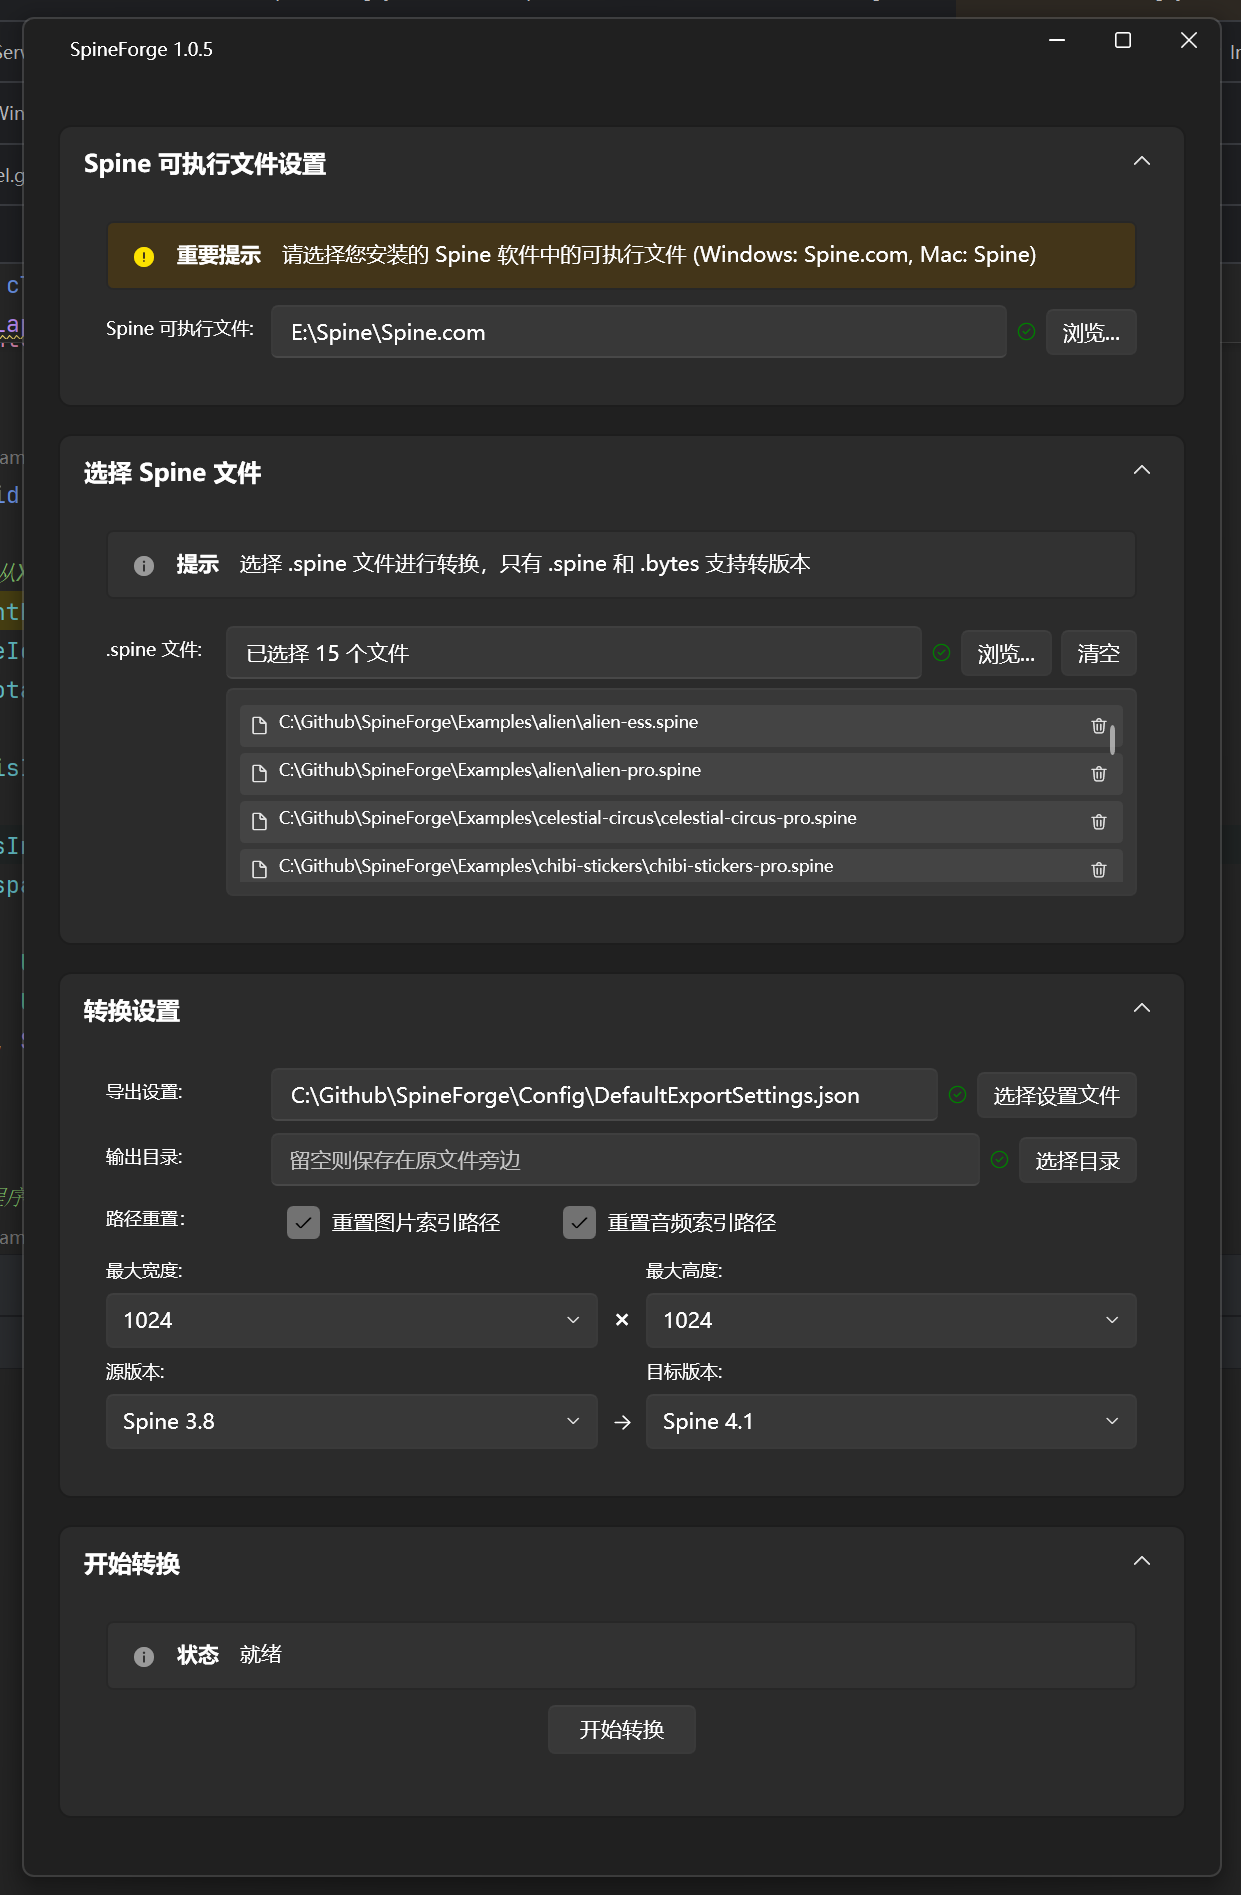
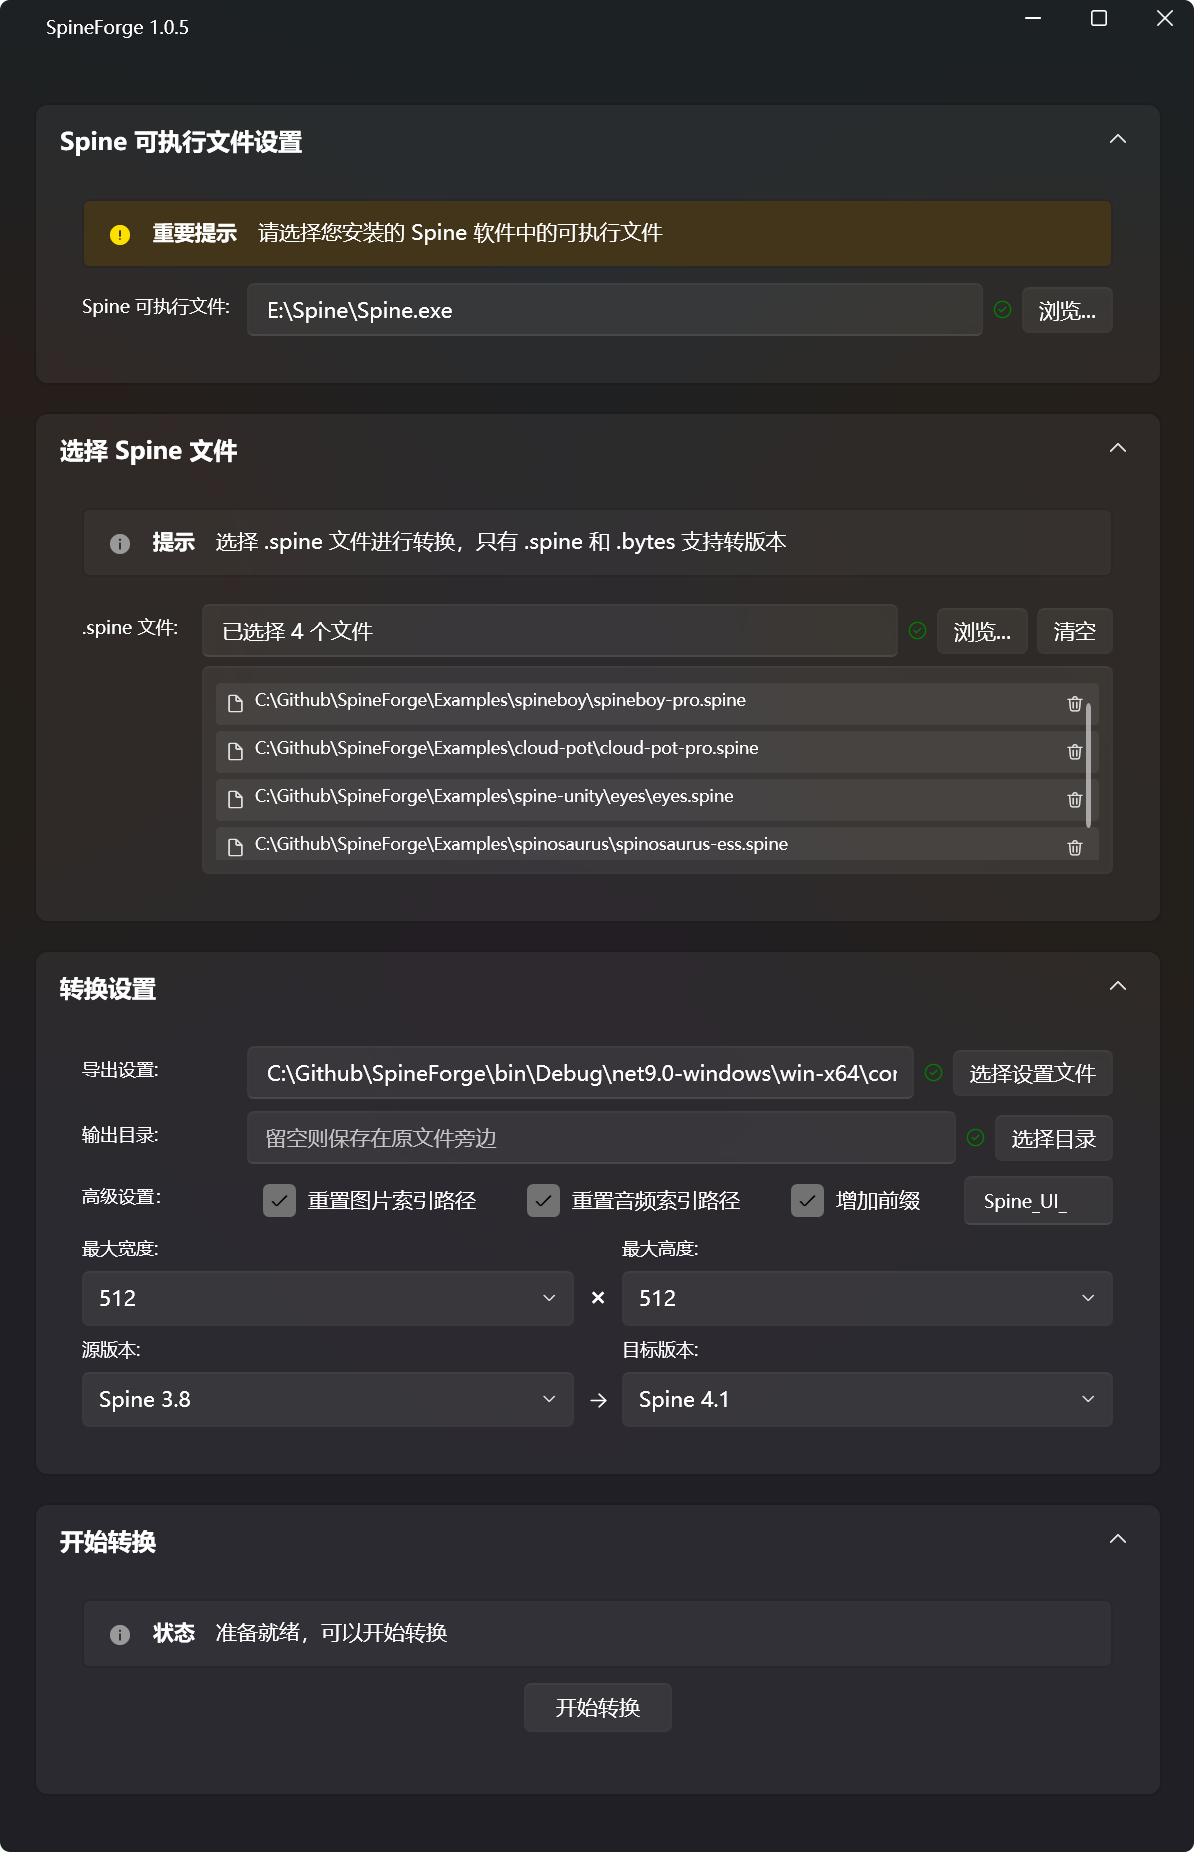
feat: Add file prefix modification functionality.

diff --git a/Views/MainWindow.xaml b/Views/MainWindow.xaml
@@ -53,7 +53,7 @@
                         <StackPanel Margin="15">
 
                             <ui:InfoBar Title="重要提示"
-                                        Message="请选择您安装的 Spine 软件中的可执行文件 (Windows: Spine.com, Mac: Spine)"
+                                        Message="请选择您安装的 Spine 软件中的可执行文件"
                                         Severity="Warning"
                                         IsOpen="True"
                                         IsClosable="False"
@@ -330,7 +330,7 @@
                                            Padding="10,5" />
                             </Grid>
 
-                            <!-- 路径重置选项 -->
+                            <!-- 高级设置选项 -->
                             <Grid Margin="0,0,0,8">
                                 <Grid.ColumnDefinitions>
                                     <ColumnDefinition Width="110" />
@@ -340,26 +340,49 @@
                                 </Grid.ColumnDefinitions>
 
                                 <ui:TextBlock Grid.Column="0"
-                                              Text="路径重置："
+                                              Text="高级设置："
                                               VerticalAlignment="Center"
                                               FontWeight="Medium"
                                               FontSize="12" />
 
-                                <StackPanel Grid.Column="1" Orientation="Horizontal" Margin="0,0,6,0">
-                                    <CheckBox Content="重置图片索引路径"
+                                <Grid Grid.Column="1" Margin="0,0,0,0">
+                                    <Grid.ColumnDefinitions>
+                                        <ColumnDefinition Width="Auto" />
+                                        <ColumnDefinition Width="Auto" />
+                                        <ColumnDefinition Width="Auto" />
+                                        <ColumnDefinition Width="*" />
+                                    </Grid.ColumnDefinitions>
+
+                                    <CheckBox Grid.Column="0"
+                                              Content="重置图片索引路径"
                                               IsChecked="{Binding ConversionSettings.ResetImagePaths}"
                                               FontSize="12"
-                                              Margin="0,0,20,0"
+                                              Margin="0,0,12,0"
                                               VerticalAlignment="Center" />
 
-                                    <CheckBox Content="重置音频索引路径"
+                                    <CheckBox Grid.Column="1"
+                                              Content="重置音频索引路径"
                                               IsChecked="{Binding ConversionSettings.ResetAudioPaths}"
                                               FontSize="12"
+                                              Margin="0,0,12,0"
                                               VerticalAlignment="Center" />
-                                </StackPanel>
+
+                                    <CheckBox Grid.Column="2"
+                                              Content="增加前缀"
+                                              IsChecked="{Binding ConversionSettings.AddPrefix}"
+                                              FontSize="12"
+                                              Margin="0,0,6,0"
+                                              VerticalAlignment="Center" />
+
+                                    <ui:TextBox Grid.Column="3"
+                                                Text="{Binding ConversionSettings.FilePrefix}"
+                                                PlaceholderText="输入前缀..."
+                                                FontSize="12"
+                                                VerticalAlignment="Center"
+                                                IsEnabled="{Binding ConversionSettings.AddPrefix}" />
+                                </Grid>
                             </Grid>
-
-
+                            
                             <!-- 图集尺寸设置 -->
                             <Grid Margin="0,0,0,8">
                                 <Grid.ColumnDefinitions>

diff --git a/ViewModels/MainViewModel.cs b/ViewModels/MainViewModel.cs
@@ -7,9 +7,9 @@ using System.ComponentModel;
 using System.IO;
 using System.Reflection;
 using System.Text;
+
 // ReSharper disable UnusedMember.Local
 // ReSharper disable LocalizableElement
-
 // ReSharper disable RedundantDefaultMemberInitializer
 // ReSharper disable UnusedVariable
 
@@ -52,14 +52,14 @@ public partial class MainViewModel : ObservableObject
         HasSpineFiles &&
         SelectedTargetVersion != null &&
         ConversionSettings.IsExportSettingsValid;
-    
+
     public bool ButtonEnabled => CanStartConversion;
-    
+
     private bool ContainsNonAsciiCharacters(string path)
     {
         return !string.IsNullOrEmpty(path) && path.Any(c => c > 127);
     }
-    
+
     // 用于 UI 绑定的显示属性（简化为计算属性）
     public string SpineExecutablePathDisplay =>
         string.IsNullOrEmpty(CurrentAsset?.SpineExecutablePath) ? "未选择" : CurrentAsset.SpineExecutablePath;
@@ -728,6 +728,11 @@ public partial class MainViewModel : ObservableObject
                 unifiedLog.AppendLine($"完整路径: {filePath}");
                 unifiedLog.AppendLine(startLogEntry);
 
+                var preConversionSnapshot = TakeDirectorySnapshot(ConversionSettings.OutputDirectory);
+                var snapshotLog =
+                    $"{DateTime.Now:yyyy-MM-dd HH:mm:ss} - [{fileName}] 记录转换前快照，现有文件数: {preConversionSnapshot.Count}";
+                unifiedLog.AppendLine(snapshotLog);
+
                 // 为每个文件创建单独的 SpineAsset
                 var assetForConversion = new SpineAsset
                 {
@@ -754,6 +759,10 @@ public partial class MainViewModel : ObservableObject
                 if (success)
                 {
                     successCount++;
+
+                    // 使用快照进行文件重命名
+                    await HandleFileRenamingWithSnapshotAsync(filePath, fileName, preConversionSnapshot, unifiedLog);
+
                     var successEntry =
                         $"{DateTime.Now:yyyy-MM-dd HH:mm:ss} - ✓ 转换成功: {fileName} (耗时: {fileDuration.TotalSeconds:F1}秒)";
                     ConversionLog += successEntry + "\n";
@@ -808,6 +817,197 @@ public partial class MainViewModel : ObservableObject
         finally
         {
             IsConverting = false;
+        }
+    }
+    
+    private HashSet<string> TakeDirectorySnapshot(string directory)
+    {
+        try
+        {
+            if (!Directory.Exists(directory))
+            {
+                return new HashSet<string>(StringComparer.OrdinalIgnoreCase);
+            }
+
+            return Directory.GetFiles(directory)
+                .Select(Path.GetFileName)
+                .ToHashSet(StringComparer.OrdinalIgnoreCase);
+        }
+        catch (Exception ex)
+        {
+            // 记录错误但不抛出异常
+            ConversionLog += $"{DateTime.Now:yyyy-MM-dd HH:mm:ss} - 记录目录快照时出错: {ex.Message}\n";
+            return new HashSet<string>(StringComparer.OrdinalIgnoreCase);
+        }
+    }
+
+    // 修改后的重命名方法：使用快照比较
+    private async Task HandleFileRenamingWithSnapshotAsync(string originalSpineFile, string fileName,
+        HashSet<string> preConversionSnapshot, StringBuilder unifiedLog)
+    {
+        try
+        {
+            // 检查是否需要添加前缀
+            if (!ConversionSettings.AddPrefix || string.IsNullOrEmpty(ConversionSettings.FilePrefix))
+            {
+                var skipLog = $"{DateTime.Now:yyyy-MM-dd HH:mm:ss} - [{fileName}] 跳过重命名（未启用前缀或前缀为空）";
+                unifiedLog.AppendLine(skipLog);
+                return;
+            }
+
+            var outputDir = ConversionSettings.OutputDirectory;
+
+            var logEntry =
+                $"{DateTime.Now:yyyy-MM-dd HH:mm:ss} - [{fileName}] 开始重命名文件，添加前缀: {ConversionSettings.FilePrefix}";
+            ConversionLog += logEntry + "\n";
+            unifiedLog.AppendLine(logEntry);
+
+            // 找出新增的文件（转换后才有的）
+            var currentFiles = Directory.GetFiles(outputDir)
+                .Select(Path.GetFileName)
+                .ToHashSet(StringComparer.OrdinalIgnoreCase);
+
+            var newFiles = currentFiles.Except(preConversionSnapshot).ToList();
+
+            var newJsonFiles = newFiles.Where(f => f.EndsWith(".json", StringComparison.OrdinalIgnoreCase)).ToList();
+            var newAtlasFiles = newFiles.Where(f => f.EndsWith(".atlas", StringComparison.OrdinalIgnoreCase)).ToList();
+            var newPngFiles = newFiles.Where(f => f.EndsWith(".png", StringComparison.OrdinalIgnoreCase)).ToList();
+
+            var foundFilesLog =
+                $"{DateTime.Now:yyyy-MM-dd HH:mm:ss} - [{fileName}] 找到新导出的文件: JSON({newJsonFiles.Count}), Atlas({newAtlasFiles.Count}), PNG({newPngFiles.Count})";
+            ConversionLog += foundFilesLog + "\n";
+            unifiedLog.AppendLine(foundFilesLog);
+
+            // 如果没有找到新文件，记录详细信息
+            if (!newFiles.Any())
+            {
+                var noNewFilesLog = $"{DateTime.Now:yyyy-MM-dd HH:mm:ss} - [{fileName}] 未找到新导出的文件";
+                ConversionLog += noNewFilesLog + "\n";
+                unifiedLog.AppendLine(noNewFilesLog);
+                unifiedLog.AppendLine(
+                    $"{DateTime.Now:yyyy-MM-dd HH:mm:ss} - [{fileName}] 转换前文件数: {preConversionSnapshot.Count}, 转换后文件数: {currentFiles.Count}");
+                return;
+            }
+
+            // 详细记录找到的新文件
+            if (newFiles.Any())
+            {
+                unifiedLog.AppendLine($"{DateTime.Now:yyyy-MM-dd HH:mm:ss} - [{fileName}] 新增文件列表:");
+                foreach (var newFile in newFiles.Take(10)) // 最多显示10个文件
+                {
+                    unifiedLog.AppendLine($"  - {newFile}");
+                }
+
+                if (newFiles.Count > 10)
+                {
+                    unifiedLog.AppendLine($"  ... 还有 {newFiles.Count - 10} 个文件");
+                }
+            }
+
+            int renamedCount = 0;
+
+            // 重命名 JSON 文件
+            foreach (var jsonFileName in newJsonFiles)
+            {
+                var currentName = Path.GetFileNameWithoutExtension(jsonFileName);
+                var newName = $"{ConversionSettings.FilePrefix}{currentName}";
+                var currentPath = Path.Combine(outputDir, jsonFileName);
+                var newPath = Path.Combine(outputDir, $"{newName}.json");
+
+                if (!File.Exists(newPath) && !currentName.StartsWith(ConversionSettings.FilePrefix))
+                {
+                    File.Move(currentPath, newPath);
+                    var renameLog =
+                        $"{DateTime.Now:yyyy-MM-dd HH:mm:ss} - [{fileName}] 重命名 JSON: {jsonFileName} -> {newName}.json";
+                    ConversionLog += renameLog + "\n";
+                    unifiedLog.AppendLine(renameLog);
+                    renamedCount++;
+                }
+            }
+
+            // 重命名 Atlas 文件
+            foreach (var atlasFileName in newAtlasFiles)
+            {
+                var currentName = Path.GetFileNameWithoutExtension(atlasFileName);
+                var newName = $"{ConversionSettings.FilePrefix}{currentName}";
+                var currentPath = Path.Combine(outputDir, atlasFileName);
+                var newPath = Path.Combine(outputDir, $"{newName}.atlas");
+
+                if (!File.Exists(newPath) && !currentName.StartsWith(ConversionSettings.FilePrefix))
+                {
+                    File.Move(currentPath, newPath);
+                    var renameLog =
+                        $"{DateTime.Now:yyyy-MM-dd HH:mm:ss} - [{fileName}] 重命名 Atlas: {atlasFileName} -> {newName}.atlas";
+                    ConversionLog += renameLog + "\n";
+                    unifiedLog.AppendLine(renameLog);
+                    renamedCount++;
+                }
+            }
+
+            var completeLog = $"{DateTime.Now:yyyy-MM-dd HH:mm:ss} - [{fileName}] 文件重命名完成，共重命名 {renamedCount} 个文件";
+            ConversionLog += completeLog + "\n";
+            unifiedLog.AppendLine(completeLog);
+        }
+        catch (Exception ex)
+        {
+            var errorLog = $"{DateTime.Now:yyyy-MM-dd HH:mm:ss} - [{fileName}] 重命名文件时出错: {ex.Message}";
+            ConversionLog += errorLog + "\n";
+            unifiedLog.AppendLine(errorLog);
+        }
+    }
+
+    private async Task HandleFileRenamingAsync(string originalSpineFile, string fileName, StringBuilder unifiedLog)
+    {
+        try
+        {
+            // 检查是否需要添加前缀（假设你的 ConversionSettings 有这些属性）
+            if (!ConversionSettings.AddPrefix || string.IsNullOrEmpty(ConversionSettings.FilePrefix))
+            {
+                return; // 不需要重命名
+            }
+
+            var outputDir = ConversionSettings.OutputDirectory;
+            var originalFileName = Path.GetFileNameWithoutExtension(originalSpineFile);
+            var baseFileName = $"{ConversionSettings.FilePrefix}{originalFileName}";
+
+            var logEntry =
+                $"{DateTime.Now:yyyy-MM-dd HH:mm:ss} - [{fileName}] 开始重命名文件，添加前缀: {ConversionSettings.FilePrefix}";
+            ConversionLog += logEntry + "\n";
+            unifiedLog.AppendLine(logEntry);
+
+            // 重命名 JSON 文件
+            var originalJsonPath = Path.Combine(outputDir, $"{originalFileName}.json");
+            var newJsonPath = Path.Combine(outputDir, $"{baseFileName}.json");
+            if (File.Exists(originalJsonPath))
+            {
+                File.Move(originalJsonPath, newJsonPath);
+                var renameLog =
+                    $"{DateTime.Now:yyyy-MM-dd HH:mm:ss} - [{fileName}] 重命名 JSON: {originalFileName}.json -> {baseFileName}.json";
+                ConversionLog += renameLog + "\n";
+                unifiedLog.AppendLine(renameLog);
+            }
+
+            // 重命名 Atlas 文件
+            var originalAtlasPath = Path.Combine(outputDir, $"{originalFileName}.atlas");
+            var newAtlasPath = Path.Combine(outputDir, $"{baseFileName}.atlas");
+            if (File.Exists(originalAtlasPath))
+            {
+                File.Move(originalAtlasPath, newAtlasPath);
+                var renameLog =
+                    $"{DateTime.Now:yyyy-MM-dd HH:mm:ss} - [{fileName}] 重命名 Atlas: {originalFileName}.atlas -> {baseFileName}.atlas";
+                ConversionLog += renameLog + "\n";
+                unifiedLog.AppendLine(renameLog);
+            }
+
+            var completeLog = $"{DateTime.Now:yyyy-MM-dd HH:mm:ss} - [{fileName}] 文件重命名完成";
+            ConversionLog += completeLog + "\n";
+            unifiedLog.AppendLine(completeLog);
+        }
+        catch (Exception ex)
+        {
+            var errorLog = $"{DateTime.Now:yyyy-MM-dd HH:mm:ss} - [{fileName}] 重命名文件时出错: {ex.Message}";
+            ConversionLog += errorLog + "\n";
+            unifiedLog.AppendLine(errorLog);
         }
     }
 

diff --git a/Services/SpineConverterService.cs b/Services/SpineConverterService.cs
@@ -282,7 +282,8 @@ namespace SpineForge.Services
                 progress?.Report($"输出目录: {settings.OutputDirectory}");
 
                 var outputDir = settings.OutputDirectory;
-                var baseFileName = Path.GetFileNameWithoutExtension(spineFile);
+                var originalFileName = Path.GetFileNameWithoutExtension(spineFile);
+                var baseFileName = settings.AddPrefix ? $"{settings.FilePrefix}{originalFileName}" : originalFileName;
 
                 // 确保输出目录存在
                 if (!Directory.Exists(outputDir))

diff --git a/Models/ConversionSettings.cs b/Models/ConversionSettings.cs
@@ -50,8 +50,15 @@ namespace SpineForge.Models
 
         [ObservableProperty]
         private bool _resetAudioPaths = true;
+        
+        // 文件前缀相关属性
+        [ObservableProperty]
+        private bool _addPrefix = true;
 
-        // 新增：保存版本选择
+        [ObservableProperty]
+        private string _filePrefix = "Spine_UI_";
+
+        // 保存版本选择
         [ObservableProperty]
         private string _selectedSourceVersion = string.Empty;
 
